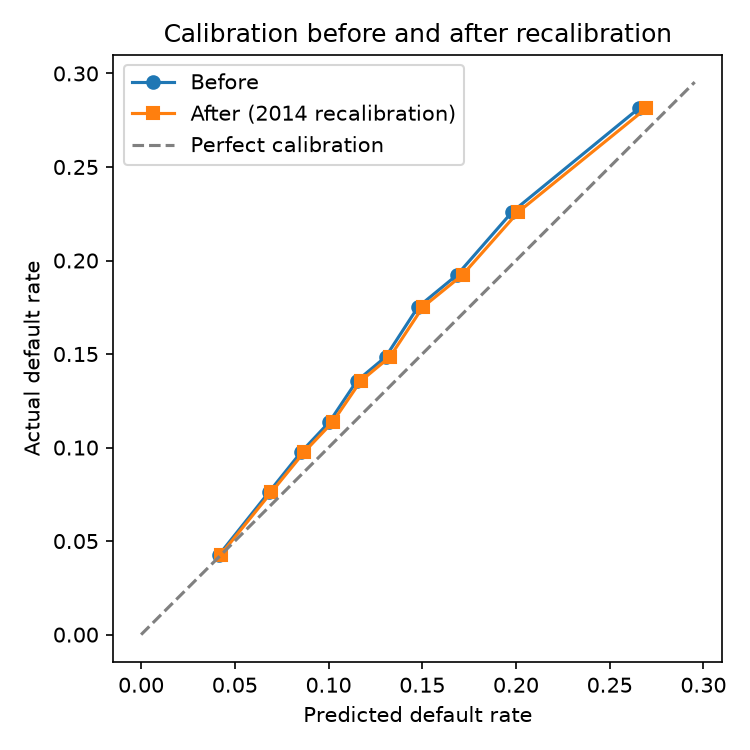
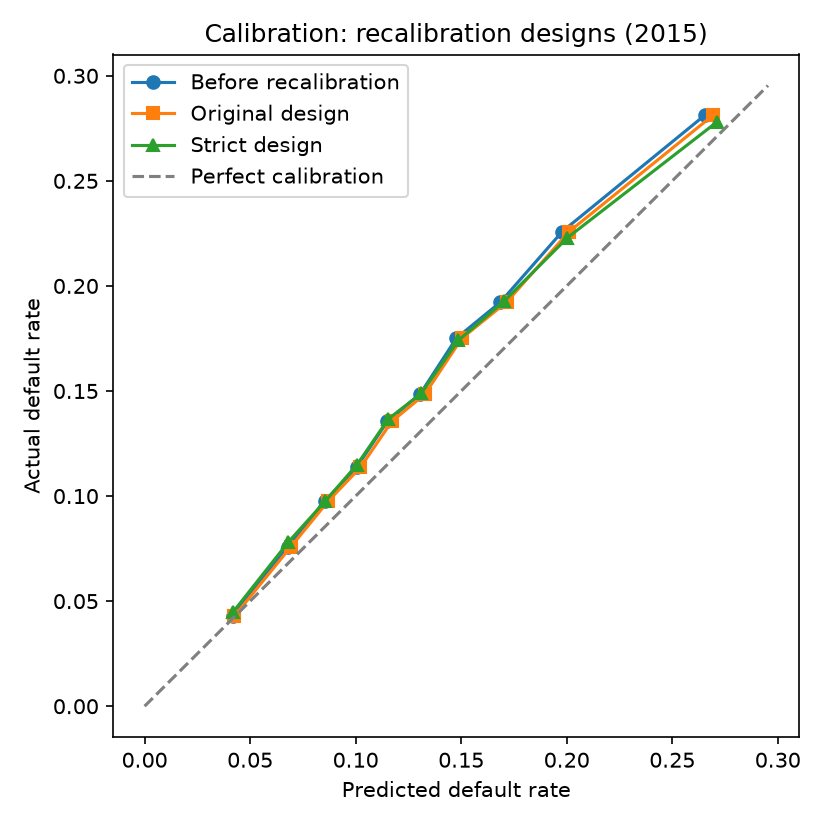
Add strict recalibration design with true 2014 holdout; update README and model card

diff --git a/src/credit_default/recalibrate.py b/src/credit_default/recalibrate.py
@@ -1,5 +1,5 @@
 # pylint: disable=wrong-import-position,no-name-in-module
-"""Recalibrate the logistic model's baseline using the latest observed vintage (2014)."""
+"""Recalibrate the logistic model's baseline, comparing an original and a strict design."""
 import joblib
 import matplotlib
 matplotlib.use("Agg")
@@ -8,11 +8,13 @@ import numpy as np
 import pandas as pd
 from scipy.optimize import brentq
 from scipy.special import expit, logit
+from sklearn.metrics import roc_auc_score
 from src.credit_default.config import DATA_DIR, MODEL_DIR, FIG_DIR
-from src.credit_default.train import NUMERIC, CATEGORICAL, TARGET
+from src.credit_default.train import NUMERIC, CATEGORICAL, TARGET, make_logit
 from src.credit_default.evaluate import calibration_table
 
 RECAL_START = "2014-01-01"   # most recent vintage fully observed before 2015
+FEATURES = NUMERIC + CATEGORICAL
 
 
 def intercept_shift(p: np.ndarray, target_rate: float) -> float:
@@ -25,46 +27,83 @@ def apply_shift(p: np.ndarray, b: float) -> np.ndarray:
     return expit(logit(np.clip(p, 1e-6, 1 - 1e-6)) + b)
 
 
+def split_for_recalibration(train: pd.DataFrame):
+    """Split training data into a fit period (2012-2013) and a recalibration holdout (2014)."""
+    fit = train[train["issue_date"] < RECAL_START]
+    holdout = train[train["issue_date"] >= RECAL_START]
+    return fit, holdout
+
+
+def original_recalibration(train: pd.DataFrame, preds: pd.DataFrame) -> dict:
+    """Original design: the production model (trained 2012-2014), recalibrated on 2014."""
+    model = joblib.load(MODEL_DIR / "logit.joblib")
+    _, holdout = split_for_recalibration(train)
+    p_hold = model.predict_proba(holdout[FEATURES])[:, 1]
+    b = intercept_shift(p_hold, holdout[TARGET].mean())
+    p_test = preds["pd_logit"].to_numpy()
+    return {"design": "Original (2014 in training)",
+            "holdout_predicted": p_hold.mean(), "holdout_actual": holdout[TARGET].mean(),
+            "shift": b, "test_before": p_test.mean(),
+            "test_after": apply_shift(p_test, b).mean(),
+            "test_auc": roc_auc_score(preds[TARGET], p_test),
+            "p_after": apply_shift(p_test, b)}
+
+
+def strict_recalibration(train: pd.DataFrame, test: pd.DataFrame) -> dict:
+    """Strict design: train on 2012-2013, recalibrate on a true 2014 holdout, apply to 2015."""
+    fit, holdout = split_for_recalibration(train)
+    model = make_logit().fit(fit[FEATURES], fit[TARGET])
+    p_hold = model.predict_proba(holdout[FEATURES])[:, 1]
+    b = intercept_shift(p_hold, holdout[TARGET].mean())
+    p_test = model.predict_proba(test[FEATURES])[:, 1]
+    return {"design": "Strict (2014 held out)",
+            "holdout_predicted": p_hold.mean(), "holdout_actual": holdout[TARGET].mean(),
+            "shift": b, "test_before": p_test.mean(),
+            "test_after": apply_shift(p_test, b).mean(),
+            "test_auc": roc_auc_score(test[TARGET], p_test),
+            "p_after": apply_shift(p_test, b), "model": model}
+
+
 def main():
     train = pd.read_parquet(DATA_DIR / "processed" / "train.parquet")
-    model = joblib.load(MODEL_DIR / "logit.joblib")
-
-    # 1. Measure the shift on the 2014 vintage only
-    recal = train[train["issue_date"] >= RECAL_START]
-    p_recal = model.predict_proba(recal[NUMERIC + CATEGORICAL])[:, 1]
-    target = recal[TARGET].mean()
-    b = intercept_shift(p_recal, target)
-    print(f"2014 vintage: predicted {p_recal.mean():.2%}, actual {target:.2%}")
-    print(f"Intercept shift (log-odds): {b:+.3f}")
-
-    # 2. Apply it to the 2015 out-of-time predictions
+    test = pd.read_parquet(DATA_DIR / "processed" / "test.parquet")
     preds = pd.read_parquet(DATA_DIR / "processed" / "test_predictions.parquet")
-    preds["pd_logit_recal"] = apply_shift(preds["pd_logit"].to_numpy(), b)
     y = preds[TARGET]
 
-    print("\n=== 2015 out-of-time calibration ===")
-    print(f"Actual default rate:        {y.mean():.2%}")
-    print(f"Mean PD before recalibration: {preds['pd_logit'].mean():.2%}")
-    print(f"Mean PD after recalibration:  {preds['pd_logit_recal'].mean():.2%}")
+    original = original_recalibration(train, preds)
+    strict = strict_recalibration(train, test)
 
+    # --- Comparison table ---
+    cols = ["design", "holdout_predicted", "holdout_actual", "shift",
+            "test_before", "test_after", "test_auc"]
+    comparison = pd.DataFrame([{k: r[k] for k in cols} for r in (original, strict)])
+    print(f"\n=== Recalibration designs compared (2015 actual default rate: {y.mean():.2%}) ===")
+    print(comparison.round(4).to_string(index=False))
+
+    # --- Calibration plot: before, original, and strict ---
     before = calibration_table(y, preds["pd_logit"])
-    after = calibration_table(y, preds["pd_logit_recal"])
+    after_orig = calibration_table(y, original["p_after"])
+    after_strict = calibration_table(test[TARGET], strict["p_after"])
 
-    # 3. Before-and-after calibration plot
-    plt.figure(figsize=(5, 5))
-    plt.plot(before["predicted"], before["actual"], "o-", label="Before")
-    plt.plot(after["predicted"], after["actual"], "s-", label="After (2014 recalibration)")
-    lim = max(before["actual"].max(), after["predicted"].max()) * 1.05
+    plt.figure(figsize=(5.5, 5.5))
+    plt.plot(before["predicted"], before["actual"], "o-", label="Before recalibration")
+    plt.plot(after_orig["predicted"], after_orig["actual"], "s-", label="Original design")
+    plt.plot(after_strict["predicted"], after_strict["actual"], "^-", label="Strict design")
+    lim = max(before["actual"].max(), after_strict["predicted"].max()) * 1.05
     plt.plot([0, lim], [0, lim], "--", color="grey", label="Perfect calibration")
     plt.xlabel("Predicted default rate"); plt.ylabel("Actual default rate")
-    plt.title("Calibration before and after recalibration"); plt.legend()
+    plt.title("Calibration: recalibration designs (2015)"); plt.legend()
     plt.tight_layout(); plt.savefig(FIG_DIR / "calibration_recalibrated.png", dpi=150); plt.close()
 
-    joblib.dump({"intercept_shift": b, "fit_on": "2014 vintage"},
-                MODEL_DIR / "recalibration.joblib")
+    # --- Save outputs ---
+    preds["pd_logit_recal"] = original["p_after"]
     preds.to_parquet(DATA_DIR / "processed" / "test_predictions.parquet")
-    after.to_csv(FIG_DIR / "calibration_table_recalibrated.csv")
-    print(f"\nSaved plot and recalibration to {FIG_DIR} and {MODEL_DIR}")
+    joblib.dump({"original_shift": original["shift"], "strict_shift": strict["shift"],
+                 "strict_model": strict["model"], "holdout": "2014 vintage"},
+                MODEL_DIR / "recalibration.joblib")
+    comparison.to_csv(FIG_DIR / "recalibration_comparison.csv", index=False)
+    after_strict.to_csv(FIG_DIR / "calibration_table_recalibrated.csv")
+    print(f"\nSaved comparison, plot, and recalibration to {FIG_DIR} and {MODEL_DIR}")
 
 
 if __name__ == "__main__":

diff --git a/tests/test_recalibration.py b/tests/test_recalibration.py
@@ -1,7 +1,9 @@
 """Recalibration: the intercept shift hits its target and preserves ranking."""
 import numpy as np
+import pandas as pd
 import pytest
-from src.credit_default.recalibrate import intercept_shift, apply_shift
+from src.credit_default.recalibrate import (intercept_shift, apply_shift,
+                                            split_for_recalibration)
 
 rng = np.random.default_rng(0)
 P = rng.uniform(0.02, 0.40, size=5_000)
@@ -24,3 +26,11 @@ def test_no_shift_when_already_calibrated():
 def test_probabilities_stay_in_bounds():
     adjusted = apply_shift(P, 3.0)
     assert ((adjusted > 0) & (adjusted < 1)).all()
+
+
+def test_recalibration_holdout_is_separate():
+    df = pd.DataFrame({"issue_date": pd.date_range("2012-01-01", periods=36, freq="MS")})
+    fit, holdout = split_for_recalibration(df)
+    assert fit["issue_date"].max() < pd.Timestamp("2014-01-01")
+    assert holdout["issue_date"].min() >= pd.Timestamp("2014-01-01")
+    assert len(fit) + len(holdout) == len(df)

diff --git a/README.md b/README.md
@@ -16,11 +16,11 @@ An end-to-end probability of default (PD) model built on Lending Club loan data,
 | **Calibration** | The base model **underpredicts** 2015 defaults: 13.2% predicted vs. 14.9% actual |
 | **Population stability** | Score PSI of **0.001**: no meaningful shift in the borrower population |
 | **Main insight** | The 2015 miss is **concept drift, not data drift**. Borrowers looked the same, but defaulted more. PSI alone would not have caught it. |
-| **Recalibration** | Recalibrating on the latest available vintage (2014) moved the mean PD only from 13.2% to 13.4% |
+| **Recalibration** | Two designs tested, including a strict 2014 holdout. Both moved the 2015 mean PD to only about 13.4% (vs. 14.9% actual), confirming the remaining gap is genuine concept drift |
 | **Macro features** | Cut the calibration gap roughly in half (14.1% vs. 14.9% actual), but national unemployment showed a counterintuitive, cycle-driven sign that should not be trusted in production |
 | **Explainability** | Drivers match credit intuition (loan purpose, FICO, renting, inquiries, loan-to-income). Monotonic constraints cost essentially **no** AUC (0.654 vs. 0.655). |
 | **Scaling** | The data pipeline is also implemented in **PySpark**, reconciled against the DuckDB SQL version across 1,020,743 loans with **zero discrepancies** |
-| **Engineering** | 25 automated tests run on every push, shared preprocessing across scripts, pinned dependencies, a one-command pipeline, and timestamped run archives |
+| **Engineering** | 26 automated tests run on every push, shared preprocessing across scripts, pinned dependencies, a one-command pipeline, and timestamped run archives |
 
 ---
 
@@ -101,7 +101,7 @@ FRED API   → DuckDB (SQL join) → macro comparison
 3. **Feature engineering** (`features.py`): cleaning, engineered features, imputation, and the out-of-time split.
 4. **Training** (`train.py`): logistic regression benchmark and XGBoost challenger.
 5. **Evaluation** (`evaluate.py`): AUC, Gini, KS, calibration, ROC, and PSI.
-6. **Recalibration** (`recalibrate.py`): intercept adjustment using the most recent fully observed vintage.
+6. **Recalibration** (`recalibrate.py`): intercept adjustment, comparing the original design with a strict design that holds out the 2014 vintage.
 7. **Macro data** (`fred.py`, `sql/02_add_macro.sql`): pulls FRED series and joins them to loans in SQL.
 8. **Macro comparison** (`compare_macro.py`): base vs. macro-enhanced logistic regression.
 9. **Explainability** (`explain.py`): odds ratios, SHAP values, partial dependence, and monotonic constraints.
@@ -206,19 +206,27 @@ Together, these point to **concept drift**: the *relationship* between borrower 
 
 ## 6. Recalibration
 
-When scoring 2015 loans, the most recent fully observed vintage would be **2014**. The model's baseline was recalibrated using only that vintage, through **calibration-in-the-large**: a single intercept shift in log-odds, which preserves the ranking and AUC while adjusting the probability levels.
+When scoring 2015 loans, the most recent fully observed vintage would be **2014**. The model's baseline was recalibrated using that vintage through **calibration-in-the-large**: a single intercept shift in log-odds, which preserves the ranking and AUC while adjusting the probability levels.
 
-On the 2014 vintage, the model predicted **13.50%** against an actual **13.73%**, giving an intercept shift of **+0.020** in log-odds.
+Two designs were compared:
 
-| | Mean PD |
-|---|---|
-| Actual 2015 default rate | 14.89% |
-| Before recalibration | 13.21% |
-| After recalibration (2014 vintage) | 13.43% |
+- **Original:** the production model, trained on 2012–2014, recalibrated on 2014. Because 2014 was part of training, the model had already seen it.
+- **Strict:** a separate model trained on **2012–2013 only**, recalibrated on 2014 as a **true holdout** the model never saw, then applied to 2015.
 
-![Calibration before and after](reports/figures/calibration_recalibrated.png)
+| Design | 2014 predicted | 2014 actual | Shift (log-odds) | 2015 before | 2015 after | 2015 AUC |
+|---|---|---|---|---|---|---|
+| Original (2014 in training) | 13.50% | 13.73% | +0.020 | 13.21% | 13.43% | 0.655 |
+| Strict (2014 held out) | 13.02% | 13.73% | +0.064 | 12.64% | 13.33% | 0.651 |
 
-**Interpretation:** recalibrating on the latest available data narrowed the gap only slightly. The 2014 vintage was already part of the training data, and its default rate was close to the model's predictions, so there was little to correct. The remaining gap of roughly 1.5 percentage points reflects concept drift that was **not visible in any default outcomes available before 2015**. Recalibration on recent data helps, but it cannot anticipate a shift that has not yet appeared in realized defaults.
+![Calibration across recalibration designs](reports/figures/calibration_recalibrated.png)
+
+**Interpretation:**
+- **The strict design produced a correction about three times larger.** A model that never saw 2014 underpredicted it more, so the shift was larger. The original design's small shift was partly an artifact of 2014 being in its training data.
+- **Both designs land at about the same 2015 estimate,** 13.3–13.4% against an actual 14.89%. The strict model starts lower, having learned from lower-default years with less data, and its larger shift brings it back to roughly the same level.
+- **The remaining gap of about 1.5 percentage points is therefore genuine concept drift,** not a byproduct of the recalibration design. Even a properly held-out recalibration cannot anticipate a shift that has not yet appeared in realized defaults.
+- **The strict model's AUC is slightly lower** (0.651 vs. 0.655), consistent with training on about 40% less data.
+
+One note on the strict design: missing feature values in the training data were imputed with medians computed over all of 2012–2014. This affects only feature fill-in values, not outcomes, so no default information from 2014 leaks into the strict model.
 
 ---
 
@@ -345,13 +353,13 @@ A parity check (`compare_engines.py`) reconciles the two engines year by year:
 The two pipelines produce identical results, so the modeling steps can run on either engine. Spark runs locally here (`local[*]`), but the same code scales to a cluster for larger datasets.
 
 ### Automated tests
-**25 tests** (`tests/`) run locally with `make test` and automatically on every push through **GitHub Actions**, which sets up Python 3.11 and Java 17:
+**26 tests** (`tests/`) run locally with `make test` and automatically on every push through **GitHub Actions**, which sets up Python 3.11 and Java 17:
 
 | Test file | What it checks |
 |---|---|
 | `test_leakage.py` | No post-origination fields in features or SQL, Lending Club model outputs excluded, target not used as a feature, and a strict time split with no overlap |
 | `test_metrics.py` | PSI is zero for identical distributions, flags large shifts, and is never negative; KS and AUC/Gini behave correctly; calibration tables account for every loan |
-| `test_recalibration.py` | The intercept shift hits its target, preserves ranking, does nothing when already calibrated, and keeps PDs between 0 and 1 |
+| `test_recalibration.py` | The intercept shift hits its target, preserves ranking, does nothing when already calibrated, and keeps PDs between 0 and 1; the recalibration holdout is fully separate from the fit period |
 | `test_features.py` | Employment length parsing, missing indicators, safe handling of zero income, and no modification of input data |
 | `test_spark_pipeline.py` | The Spark pipeline keeps only completed 36-month loans, sets the default flag correctly, and parses issue dates |
 | `test_preprocessing.py` | Every script uses the same preprocessing definition, so encoder settings can't drift between model comparisons |
@@ -385,9 +393,8 @@ This makes every result traceable to the exact code and settings that produced i
 ## 10. Limitations
 
 - **Modest discrimination.** An AUC of 0.655 reflects an independent model using application data only. Lending Club's grade and interest rate, which were deliberately excluded, carry substantial predictive information. Macro features did not improve ranking.
-- **Residual miscalibration.** The base model underpredicts 2015 defaults by about 1.7 percentage points. Recalibration reduced this only slightly, and the macro-enhanced model still underpredicts by about 0.8 points.
+- **Residual miscalibration.** The base model underpredicts 2015 defaults by about 1.7 percentage points. Recalibration, under both the original and strict designs, reduced this only to about 1.5 points, and the macro-enhanced model still underpredicts by about 0.8 points.
 - **Untrustworthy national macro relationship.** National unemployment's coefficient reflects a single phase of the credit cycle, estimated from roughly 36 monthly observations, and has a counterintuitive sign that would mislead the model in a downturn.
-- **Recalibration design.** The 2014 vintage used for recalibration was also part of the training data. A stricter design would train on 2012–2013 only and recalibrate on 2014 as a true holdout.
 - **Single out-of-time vintage.** Results are based on one test year. Performance across multiple future vintages and economic conditions has not been assessed.
 - **Lifetime target, not a 12-month PD.** The model predicts default over the 36-month term, which differs from the 12-month PDs common in some regulatory and accounting contexts. It is closer in spirit to a lifetime loss view, but it is not a full CECL model.
 - **Approved loans only.** The data includes only loans Lending Club approved, so the model has not seen rejected applicants. Using it for underwriting decisions would require addressing this selection bias (reject inference).
@@ -404,7 +411,6 @@ This makes every result traceable to the exact code and settings that produced i
 - Test macro conditions **over the life of the loan** in a stress-testing or scenario framework, rather than at origination only.
 
 **Calibration and monitoring**
-- A **stricter recalibration design**: train on 2012–2013 and recalibrate on a 2014 holdout.
 - **Feature-level PSI** to monitor each input, not just the overall score.
 - **Rolling out-of-time evaluation** across multiple vintages to track performance stability over time.
 
@@ -443,9 +449,9 @@ credit_default_model_project/
 │   ├── download.py            # Kaggle API download
 │   ├── data.py                # SQL load into DuckDB
 │   ├── features.py            # cleaning, features, out-of-time split
-│   ├── train.py               # logistic regression and XGBoost
+│   ├── train.py               # shared preprocessing, logistic regression, and XGBoost
 │   ├── evaluate.py            # AUC, Gini, KS, calibration, ROC, PSI
-│   ├── recalibrate.py         # intercept recalibration on the 2014 vintage
+│   ├── recalibrate.py         # original and strict (2014 holdout) recalibration designs
 │   ├── fred.py                # FRED API pull and SQL macro join
 │   ├── compare_macro.py       # base vs. macro-enhanced model comparison
 │   ├── explain.py             # odds ratios, SHAP, partial dependence, monotonic constraints
@@ -455,9 +461,9 @@ credit_default_model_project/
 │   ├── test_features.py
 │   ├── test_leakage.py
 │   ├── test_metrics.py
+│   ├── test_preprocessing.py
 │   ├── test_recalibration.py
 │   └── test_spark_pipeline.py
-|   └── test_processing.py
 ├── tools/
 │   └── export_codebase.py     # prints the project tree and saves code snapshots
 ├── Makefile                   # one-command pipeline and run archiving
@@ -509,4 +515,4 @@ Individual steps can also be run on their own: `make data`, `make features`, `ma
 
 ## 14. Tech Stack
 
-Python · SQL (DuckDB) · PySpark · pandas · NumPy · SciPy · scikit-learn · XGBoost · SHAP · Matplotlib · pytest · GitHub Actions · Make · Kaggle API · FRED API · Parquet
+Python · SQL (DuckDB) · pandas · NumPy · SciPy · scikit-learn · XGBoost · SHAP · PySpark · Matplotlib · pytest · GitHub Actions · Make · Kaggle API · FRED API · Parquet
